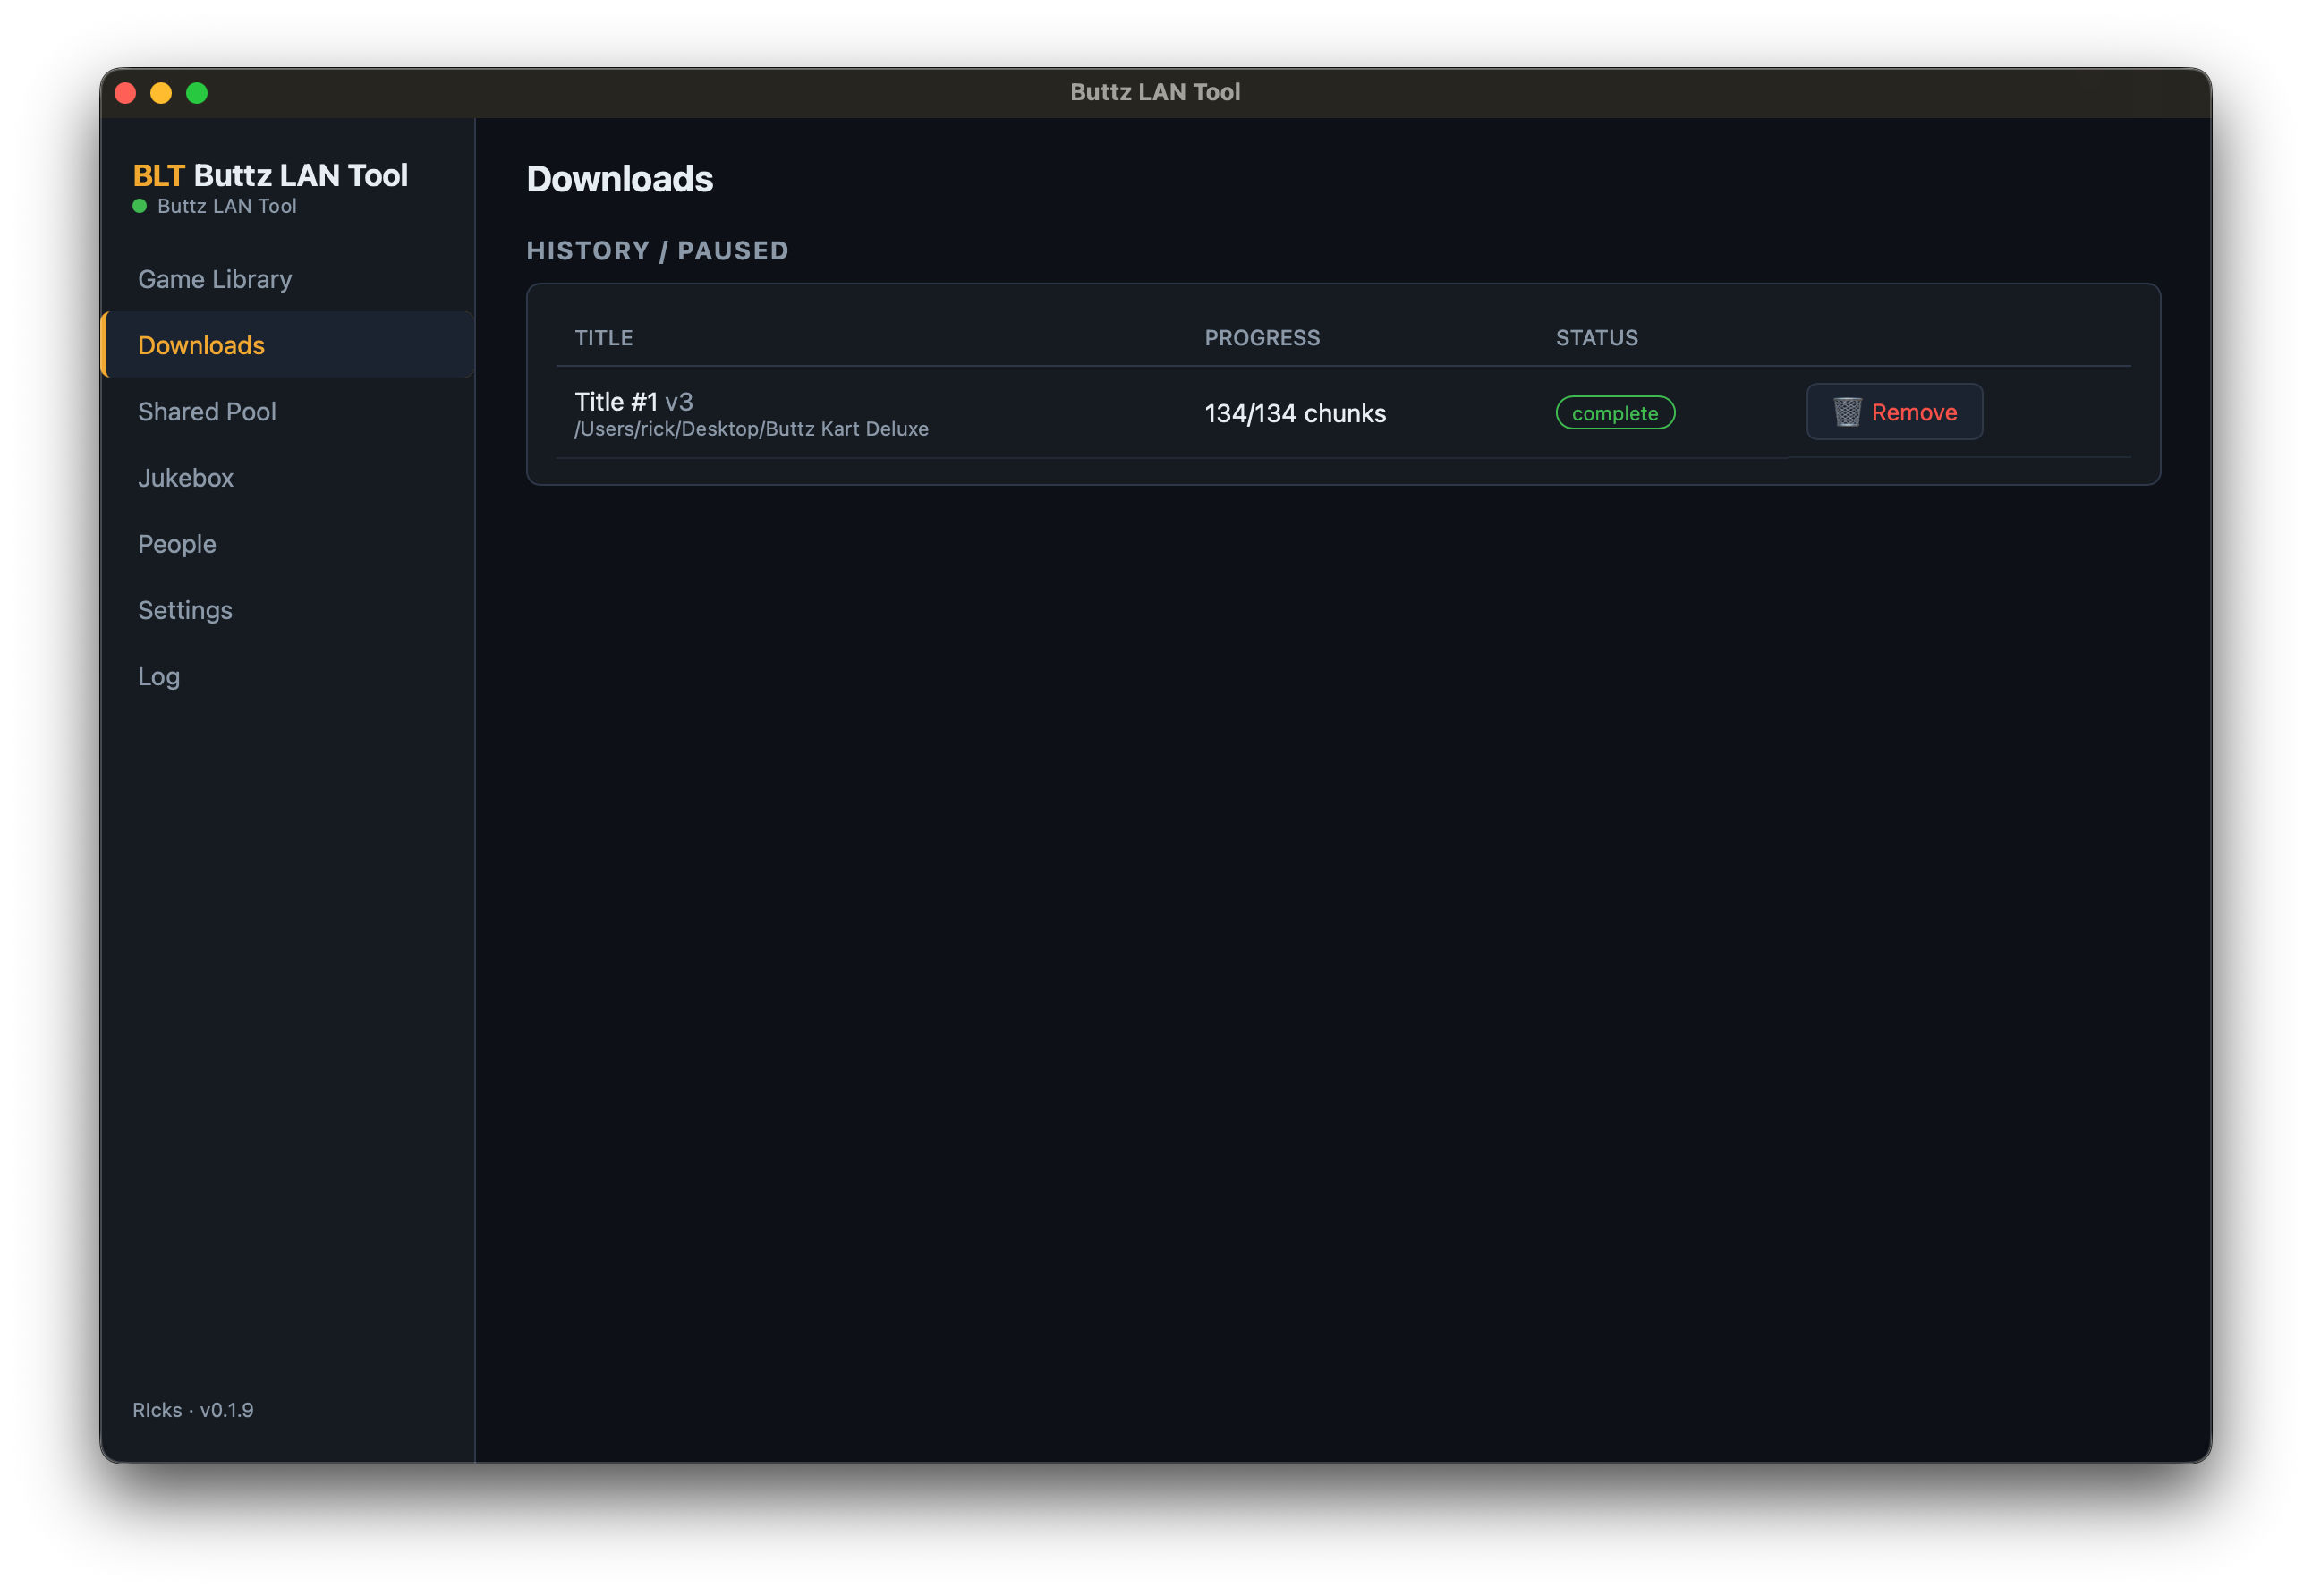
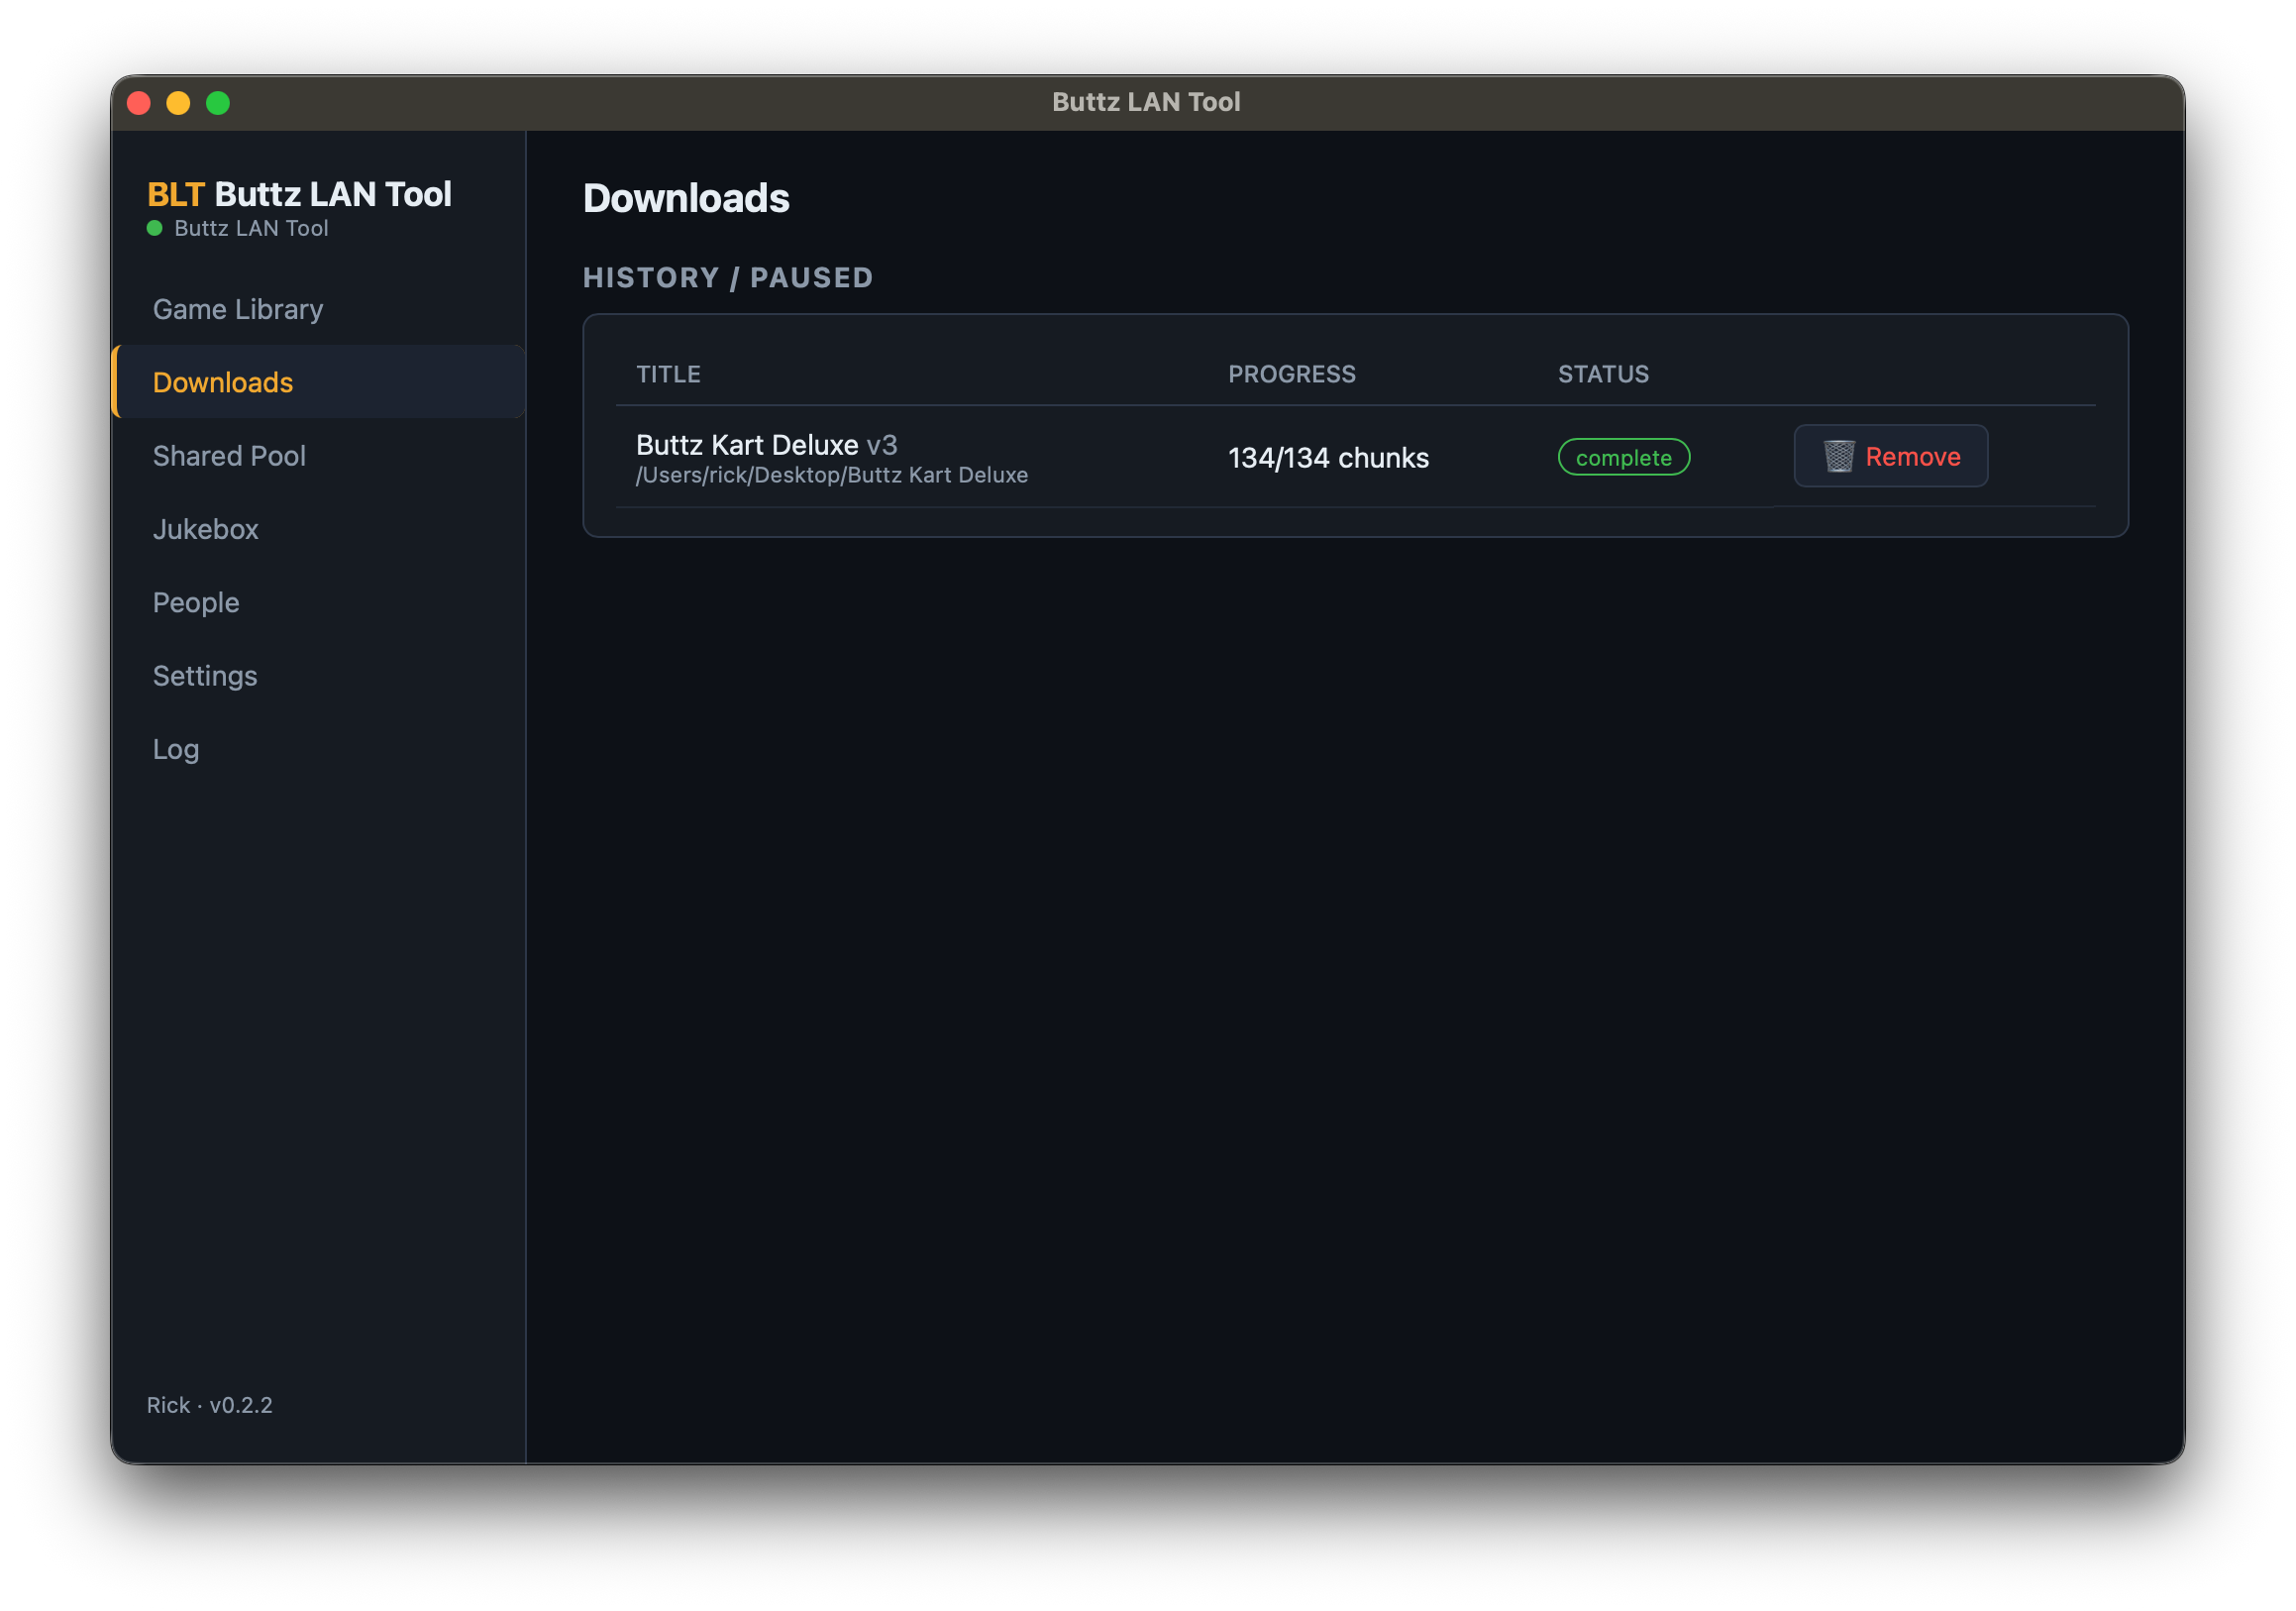
docs(readme): rewrite for GitHub with a feature list + fresh screenshots
Full rewrite of the public README: a categorized feature list (game
distribution, shared pool, jukebox, presence/routing, server/admin), badges,
and cleaner prose. Removed all em/en dashes per request. Swapped in the new
v0.2.2 screenshots (library, jukebox, shared pool, people, settings, admin
panel) and dropped the stale playback shot; kept the extra admin/downloads
shots in assets/ for future use.

diff --git a/README.md b/README.md
@@ -2,125 +2,197 @@
   <img src="assets/social-preview.png" alt="Buttz LAN Tool" width="640">
 </p>
 
-# Buttz LAN Tool (BLT)
+<h1 align="center">Buttz LAN Tool (BLT)</h1>
 
-Self-hosted, LAN-only game distribution + shared file pool + networked video
-jukebox for a LAN party among trusted friends. Windows + macOS.
+<p align="center">
+  Self-hosted, LAN-only game distribution, file sharing, and a networked video
+  jukebox for a LAN party among trusted friends. Windows and macOS.
+</p>
 
-- **`blt-server`** — headless server (Axum): game library, shared pool, jukebox
-  state, password-gated web admin panel. Runs on the dedicated multi-NIC box.
-- **`Buttz LAN Tool.app` / `.exe`** — Tauri desktop app; runs in **client**
-  (players) or **playback** mode (the machine wired to the TV).
+<p align="center">
+  <img alt="platform" src="https://img.shields.io/badge/platform-Windows%20%7C%20macOS-555">
+  <img alt="stack" src="https://img.shields.io/badge/stack-Rust%20%2B%20Tauri-orange">
+  <img alt="network" src="https://img.shields.io/badge/network-LAN%20only-2a9d8f">
+</p>
+
+BLT is two binaries that turn a spare box and everyone's laptops into a private
+LAN-party stack:
+
+- **`blt-server`** is a headless Rust server (Axum) that hosts the game library,
+  the shared file pool, and the jukebox state, plus a password-gated web admin
+  panel. It runs on the dedicated, multi-NIC host.
+- **The Buttz LAN Tool desktop app** is a Tauri app that runs as a **client**
+  (players) or as a **playback machine** (the box wired to the TV).
+
+Everything runs on your LAN. There is no cloud, no account, and no telemetry.
+
+## Features
+
+### Game distribution
+
+- Unzipped, folder-per-title library, scanned into 4 MiB BLAKE3 chunk manifests.
+- Chunked downloads with pause, resume, and retry across Wi-Fi drops.
+- Every chunk is BLAKE3-verified before it touches disk, so a bad source can
+  never corrupt a title.
+- Peer-accelerated: clients seed what they have at a configurable cap, and the
+  scheduler blends the server and peers by measured throughput.
+- Quick validation (presence and size) plus deep verify (full re-hash) with
+  per-chunk repair.
+- Optional per-title metadata (cover art, name, year, genre, blurb, launch
+  options) via a `.blt/` sidecar, with a graceful fallback when it is absent.
+- Optional Windows post-install scripts that are shown and confirmed before they
+  run, never auto-executed.
+
+### Shared file pool
+
+- Drag and drop files or whole folders to share them with the group.
+- Structure-preserving downloads with an "X of N files" completeness check.
+- Path names are sanitized on the writing side, so a folder authored on one OS
+  lands safely on another.
+- Persistent between parties and attributed by display name.
+
+### Jukebox
+
+- Upvote-only shared queue, so the most-wanted videos rise to the top.
+- Fair-rotation or vote-ranked ordering.
+- The playback machine auto-advances the queue: YouTube plays embedded,
+  shared-pool and direct-URL videos play through [mpv](https://mpv.io), and DRM
+  services (Netflix, Hulu, Prime) open in the real browser and wait for a human
+  to press Next.
+- Only the playback machine renders audio and video. Every other screen is for
+  queueing and voting.
+
+### Presence and routing
+
+- Live roster of who is online, what they are doing, and their measured seed
+  speed.
+- Reachability self-test with a graceful server-only fallback when AP isolation
+  or a firewall blocks peer traffic.
+- Throughput-weighted scheduling that is band-agnostic: slow peers simply
+  measure slower, no benchmarks required.
+
+### Server and admin
+
+- Three independently bindable services (game, share, admin) that can split
+  across up to three NICs.
+- Password-gated web admin panel for library management, service rebinds,
+  storage paths, jukebox moderation, and the live server log.
+- Signed self-update for the desktop app over GitHub Releases, always manual and
+  never automatic.
+- SQLite on both sides, running in WAL mode with periodic backups on the server.
 
 ## Screenshots
 
-| | |
+|  |  |
 |:---:|:---:|
-| **Game library** | **Downloads** — resumable, BLAKE3-verified, peer-accelerated |
-| ![Game library](assets/screenshots/library.png) | ![Downloads](assets/screenshots/downloads.png) |
-| **Jukebox** — queue + upvote voting | **Playback machine** — video playback, auto-advance |
-| ![Jukebox](assets/screenshots/jukebox.png) | ![Playback](assets/screenshots/playback.png) |
+| **Game library** | **Jukebox** |
+| ![Game library](assets/screenshots/library.png) | ![Jukebox](assets/screenshots/jukebox.png) |
+| **Shared pool** | **People (live roster)** |
+| ![Shared pool](assets/screenshots/shared-pool.png) | ![People](assets/screenshots/people.png) |
+| **Client settings** | **Web admin panel** |
+| ![Settings](assets/screenshots/settings.png) | ![Admin dashboard](assets/screenshots/admin-dashboard.png) |
 
 ## Footprint
 
-Built to disappear into the background — it shouldn't be the reason a machine
-chugs mid-party.
+BLT is built to disappear into the background. It should never be the reason a
+machine chugs mid-party.
 
-- **Native, not Electron.** The desktop app is Tauri 2 — a small Rust binary
-  driving the OS's built-in WebView (WKWebView / WebView2), so there's no
+- **Native, not Electron.** The desktop app is Tauri 2, a small Rust binary
+  driving the OS's built-in WebView (WKWebView or WebView2), so there is no
   bundled Chromium. The server and shared `core` are pure Rust: native code, no
-  VM or garbage collector, one embedded SQLite (no separate database process).
-- **Idle means idle.** State is *pushed* over the `/ws` live channel, never
-  polled, so a client sitting in the lobby uses essentially no CPU.
-- **No transcoding.** Playback hands video to the native WebView (or mpv); BLT
+  VM, no garbage collector, and one embedded SQLite (no separate database
+  process).
+- **Idle means idle.** State is pushed over the live WebSocket channel rather
+  than polled, so a client sitting in the lobby uses essentially no CPU.
+- **No transcoding.** Playback hands video to the native WebView or to mpv. BLT
   never re-encodes, so the TV box stays cool.
 - **Works only when working.** The one real cost is BLAKE3 hashing during a
-  transfer — SIMD-fast, and only while a download/seed is active. Otherwise the
-  server is I/O-bound, just serving and verifying chunks.
+  transfer, which is SIMD-fast and only runs while a download or seed is active.
+  Otherwise the server is I/O-bound, just serving and verifying chunks.
 
-In practice the Rust processes idle at a few tens of MB of RAM and near-zero
-CPU, scaling up only with active transfers.
+In practice the Rust processes idle at a few tens of MB of RAM and near-zero CPU,
+scaling up only with active transfers.
 
 ## Build from source
 
-Prereqs: Rust (stable), Node 22+.
+Prereqs: Rust (stable) and Node 22 or newer.
 
 ```sh
 cargo test                                   # core + server suites (incl. integration)
 cargo build --release -p blt-server          # the server binary
 
 cd admin-web && npm install && npm run build # admin SPA (served by the server)
-cd apps/desktop && npm install && npm run tauri build   # desktop bundles (DMG/NSIS)
+cd apps/desktop && npm install && npm run tauri build   # desktop bundles (DMG / NSIS)
 ```
 
-Dev loops: `cargo run -p blt-server` · `cd admin-web && npm run dev` (proxies
-to `127.0.0.1:7402`) · `cd apps/desktop && npm run tauri dev`.
+Dev loops: `cargo run -p blt-server`, then `cd admin-web && npm run dev` (proxies
+to `127.0.0.1:7402`), and `cd apps/desktop && npm run tauri dev`.
 
 ## Server setup (the host)
 
-1. Run `blt-server` (data lands in `%LOCALAPPDATA%\BLT\server` /
-   `~/Library/Application Support/BLT/server`; override with `--data-root`).
-2. Open the admin panel — `http://<server>:7402` — and set the admin password
-   (first run), then under **Settings**:
-   - **Library path**: each subfolder = one game, stored **unzipped**.
-   - **Staging path**: same volume as the library; copy new games here — they
-     auto-promote once files stop changing (~30 s).
+1. Run `blt-server`. Data lands in `%LOCALAPPDATA%\BLT\server` on Windows or
+   `~/Library/Application Support/BLT/server` on macOS; override with
+   `--data-root`.
+2. Open the admin panel at `http://<server>:7402`, set the admin password on
+   first run, then under **Settings**:
+   - **Library path**: each subfolder is one game, stored unzipped.
+   - **Staging path**: same volume as the library. Copy new games here and they
+     auto-promote once files stop changing (about 30 seconds).
    - **Share path**: the shared-pool drive.
-   - Bind each service to the NIC you want (game / share / admin can split
-     across up to three).
-3. **Scan now** (or wait for the auto-scan). Published titles appear in
+   - Bind each service to the NIC you want. Game, share, and admin can split
+     across up to three.
+3. Click **Scan now** (or wait for the auto-scan). Published titles appear in
    clients immediately.
-4. Optional per-title metadata: a `.blt/` folder inside the game with
+4. Optional per-title metadata: a `.blt/` folder inside the game with an
    `info.json` (name, year, genre, players, blurb, `launch` entries, Windows
-   `install_script`) and a `cover.png/jpg`. Editing it never re-versions the
-   game files.
+   `install_script`) and a `cover.png` or `cover.jpg`. Editing it never
+   re-versions the game files.
 
 Locked out of the admin panel by a bad bind? Edit `config.toml` in the server
 data folder and restart, or run `blt-server --reset-admin-bind`.
 
 ## Client setup (players)
 
-First launch: pick **Player**, set your display name (defaults to the computer
-name) and a download folder. The server is discovered via mDNS; if discovery
-is blocked, type the game-service `ip:port` manually under Settings →
-Connection.
+On first launch, pick **Player**, set your display name (it defaults to the
+computer name), and choose a download folder. The server is discovered over
+mDNS; if discovery is blocked, type the game-service `ip:port` manually under
+Settings then Connection.
 
 Downloads are chunked, BLAKE3-verified, resumable across Wi-Fi drops, and
-peer-accelerated (you seed what you've downloaded at a capped rate — toggle
-and cap under Settings).
+peer-accelerated. You seed what you have already downloaded at a capped rate,
+which you can toggle and cap under Settings.
 
 ## Playback machine (the TV box)
 
-First launch: pick **Playback machine** (or lock an existing client via
-Settings → Playback lockdown — requires the admin password, as does exiting).
-It plays the jukebox queue with auto-advance: **YouTube** plays embedded;
-**shared-pool and direct-URL videos play via [mpv](https://mpv.io)**;
-Netflix/Hulu/Prime items open in the real browser and wait for a human to press
-**Next**.
+On first launch, pick **Playback machine**, or lock an existing client via
+Settings then Playback lockdown (entering and exiting both require the admin
+password). It plays the jukebox queue with auto-advance: YouTube plays embedded,
+shared-pool and direct-URL videos play through mpv, and Netflix, Hulu, or Prime
+items open in the real browser and wait for a human to press Next.
 
-> **Install mpv on the playback machine** (`brew install mpv` / `winget install
-> mpv`) for broad codec support — HEVC/10-bit, MKV, FLAC/DTS, etc. Without it,
-> local videos fall back to the webview's built-in player, which only handles
-> browser-native formats. (mpv is only needed on the playback box.)
->
-> Log into the streaming services in that browser **before** the party.
+> **Install mpv on the playback machine** (`brew install mpv` or
+> `winget install mpv`) for broad codec support, including HEVC and 10-bit, MKV,
+> and FLAC or DTS. Without it, local videos fall back to the webview's built-in
+> player, which only handles browser-native formats. mpv is only needed on the
+> playback box. Log into the streaming services in that browser before the party.
 
 ## Pre-party network checklist
 
-- Allow the apps through the OS firewall on first launch (Windows: set the
-  network profile to **Private**). If denied, discovery and transfers fail
+- Allow the apps through the OS firewall on first launch. On Windows, set the
+  network profile to **Private**. If denied, discovery and transfers fail
   silently.
-- Confirm AP/client isolation is **off** — have two laptops ping each other.
-  If isolation is on, clients fall back to server-only downloads (visible in
-  the People roster), which still works.
-- Prefer copy tools that preserve timestamps when updating the library
-  (change detection uses size+mtime).
+- Confirm AP and client isolation is off by having two laptops ping each other.
+  If isolation is on, clients fall back to server-only downloads (visible in the
+  People roster), which still works.
+- Prefer copy tools that preserve timestamps when updating the library, since
+  change detection uses size and mtime.
 
-## Releases & updates
+## Releases and updates
 
 Tagged releases build signed bundles via CI (`.github/workflows/release.yml`);
-the Ed25519 private key lives only in CI secrets. Updates are **manual** —
-the app indicates an update and the user chooses "Download & restart"; nothing
-ever auto-installs (and a locked playback box is never restarted mid-party).
+the Ed25519 private key lives only in CI secrets. Updates are manual: the app
+indicates an update and you choose "Download & restart". Nothing ever
+auto-installs, and a locked playback box is never restarted mid-party.
 
-macOS bundles are un-notarized in v1: first launch is **right-click → Open**.
+macOS bundles are un-notarized for now, so the first launch is right-click then
+Open.